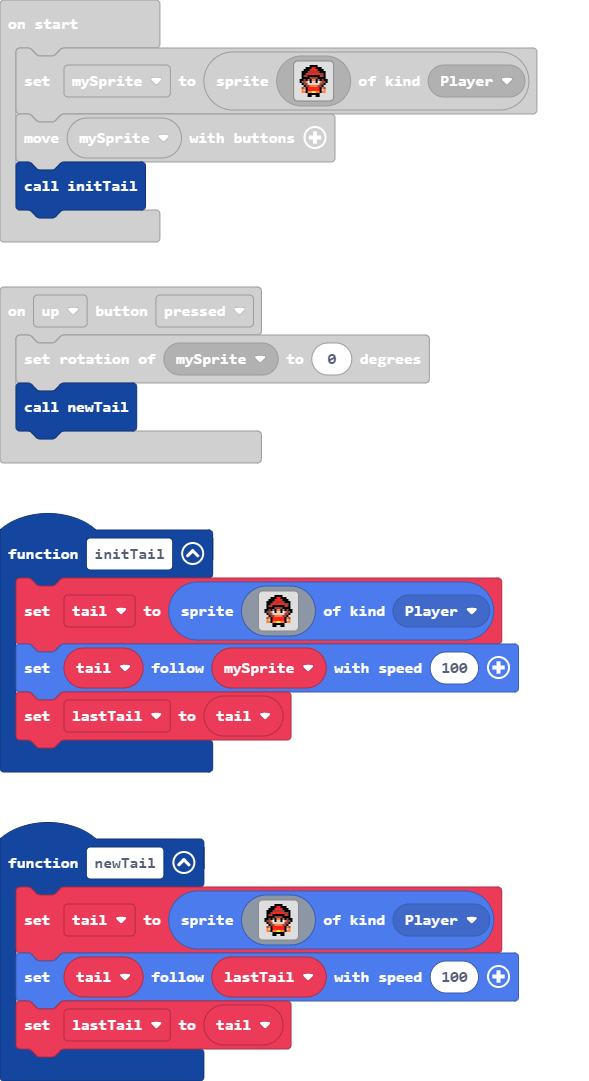
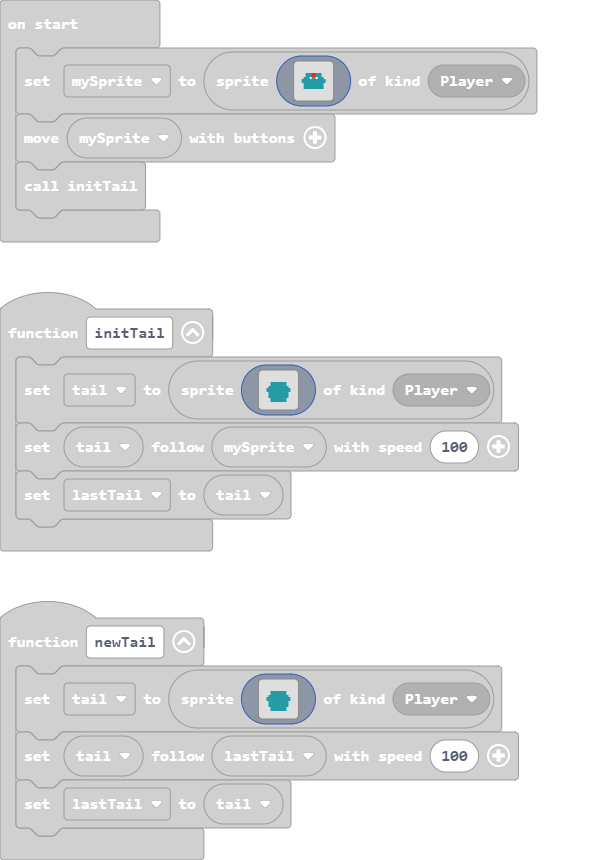
Update main.blocks, main.ts

diff --git a/main.ts b/main.ts
@@ -7,22 +7,22 @@ controller.left.onEvent(ControllerButtonEvent.Pressed, function () {
 })
 function initTail () {
     tail = sprites.create(img`
-        . . . . . . f f f f . . . . . . 
-        . . . . f f f 2 2 f f f . . . . 
-        . . . f f f 2 2 2 2 f f f . . . 
-        . . f f f e e e e e e f f f . . 
-        . . f f e 2 2 2 2 2 2 e e f . . 
-        . . f e 2 f f f f f f 2 e f . . 
-        . . f f f f e e e e f f f f . . 
-        . f f e f b f 4 4 f b f e f f . 
-        . f e e 4 1 f d d f 1 4 e e f . 
-        . . f e e d d d d d d e e f . . 
-        . . . f e e 4 4 4 4 e e f . . . 
-        . . e 4 f 2 2 2 2 2 2 f 4 e . . 
-        . . 4 d f 2 2 2 2 2 2 f d 4 . . 
-        . . 4 4 f 4 4 5 5 4 4 f 4 4 . . 
-        . . . . . f f f f f f . . . . . 
-        . . . . . f f . . f f . . . . . 
+        . . . . . . . . . . . . . . . . 
+        . . . . . . . . . . . . . . . . 
+        . . . . . . . . . . . . . . . . 
+        . . . . . . . . . . . . . . . . 
+        . . . . 6 6 6 6 6 6 6 6 . . . . 
+        . . . . 6 6 6 6 6 6 6 6 . . . . 
+        . . . 6 6 6 6 6 6 6 6 6 6 . . . 
+        . . 6 6 6 6 6 6 6 6 6 6 6 6 . . 
+        . . 6 6 6 6 6 6 6 6 6 6 6 6 . . 
+        . . . 6 6 6 6 6 6 6 6 6 6 . . . 
+        . . . 6 6 6 6 6 6 6 6 6 6 . . . 
+        . . . 6 6 6 6 6 6 6 6 6 6 . . . 
+        . . . . 6 6 6 6 6 6 6 6 . . . . 
+        . . . . 6 6 6 6 6 6 6 6 . . . . 
+        . . . . . . . . . . . . . . . . 
+        . . . . . . . . . . . . . . . . 
         `, SpriteKind.Player)
     tail.follow(mySprite, 100)
     lastTail = tail
@@ -35,22 +35,22 @@ controller.down.onEvent(ControllerButtonEvent.Pressed, function () {
 })
 function newTail () {
     tail = sprites.create(img`
-        . . . . . . f f f f . . . . . . 
-        . . . . f f f 2 2 f f f . . . . 
-        . . . f f f 2 2 2 2 f f f . . . 
-        . . f f f e e e e e e f f f . . 
-        . . f f e 2 2 2 2 2 2 e e f . . 
-        . . f e 2 f f f f f f 2 e f . . 
-        . . f f f f e e e e f f f f . . 
-        . f f e f b f 4 4 f b f e f f . 
-        . f e e 4 1 f d d f 1 4 e e f . 
-        . . f e e d d d d d d e e f . . 
-        . . . f e e 4 4 4 4 e e f . . . 
-        . . e 4 f 2 2 2 2 2 2 f 4 e . . 
-        . . 4 d f 2 2 2 2 2 2 f d 4 . . 
-        . . 4 4 f 4 4 5 5 4 4 f 4 4 . . 
-        . . . . . f f f f f f . . . . . 
-        . . . . . f f . . f f . . . . . 
+        . . . . . . . . . . . . . . . . 
+        . . . . . . . . . . . . . . . . 
+        . . . . . . . . . . . . . . . . 
+        . . . . . . . . . . . . . . . . 
+        . . . . 6 6 6 6 6 6 6 6 . . . . 
+        . . . . 6 6 6 6 6 6 6 6 . . . . 
+        . . . 6 6 6 6 6 6 6 6 6 6 . . . 
+        . . 6 6 6 6 6 6 6 6 6 6 6 6 . . 
+        . . 6 6 6 6 6 6 6 6 6 6 6 6 . . 
+        . . . 6 6 6 6 6 6 6 6 6 6 . . . 
+        . . . 6 6 6 6 6 6 6 6 6 6 . . . 
+        . . . 6 6 6 6 6 6 6 6 6 6 . . . 
+        . . . . 6 6 6 6 6 6 6 6 . . . . 
+        . . . . 6 6 6 6 6 6 6 6 . . . . 
+        . . . . . . . . . . . . . . . . 
+        . . . . . . . . . . . . . . . . 
         `, SpriteKind.Player)
     tail.follow(lastTail, 100)
     lastTail = tail
@@ -59,22 +59,22 @@ let lastTail: Sprite = null
 let tail: Sprite = null
 let mySprite: Sprite = null
 mySprite = sprites.create(img`
-    . . . . . . f f f f . . . . . . 
-    . . . . f f f 2 2 f f f . . . . 
-    . . . f f f 2 2 2 2 f f f . . . 
-    . . f f f e e e e e e f f f . . 
-    . . f f e 2 2 2 2 2 2 e e f . . 
-    . . f e 2 f f f f f f 2 e f . . 
-    . . f f f f e e e e f f f f . . 
-    . f f e f b f 4 4 f b f e f f . 
-    . f e e 4 1 f d d f 1 4 e e f . 
-    . . f e e d d d d d d e e f . . 
-    . . . f e e 4 4 4 4 e e f . . . 
-    . . e 4 f 2 2 2 2 2 2 f 4 e . . 
-    . . 4 d f 2 2 2 2 2 2 f d 4 . . 
-    . . 4 4 f 4 4 5 5 4 4 f 4 4 . . 
-    . . . . . f f f f f f . . . . . 
-    . . . . . f f . . f f . . . . . 
+    . . . . . . . . . . . . . . . . 
+    . . . . . . . . . . . . . . . . 
+    . . . . . . . . . . . . . . . . 
+    . . . . . . . . . . . . . . . . 
+    . . . . 6 6 6 2 2 6 6 6 . . . . 
+    . . . . 6 6 6 2 2 6 6 6 . . . . 
+    . . . 6 6 6 1 6 6 1 6 6 6 . . . 
+    . . 6 6 6 6 6 6 6 6 6 6 6 6 . . 
+    . . 6 6 6 6 6 6 6 6 6 6 6 6 . . 
+    . . . 6 6 6 6 6 6 6 6 6 6 . . . 
+    . . . 6 6 6 6 6 6 6 6 6 6 . . . 
+    . . . 6 6 6 6 6 6 6 6 6 6 . . . 
+    . . . . . . . . . . . . . . . . 
+    . . . . . . . . . . . . . . . . 
+    . . . . . . . . . . . . . . . . 
+    . . . . . . . . . . . . . . . . 
     `, SpriteKind.Player)
 controller.moveSprite(mySprite)
 initTail()
